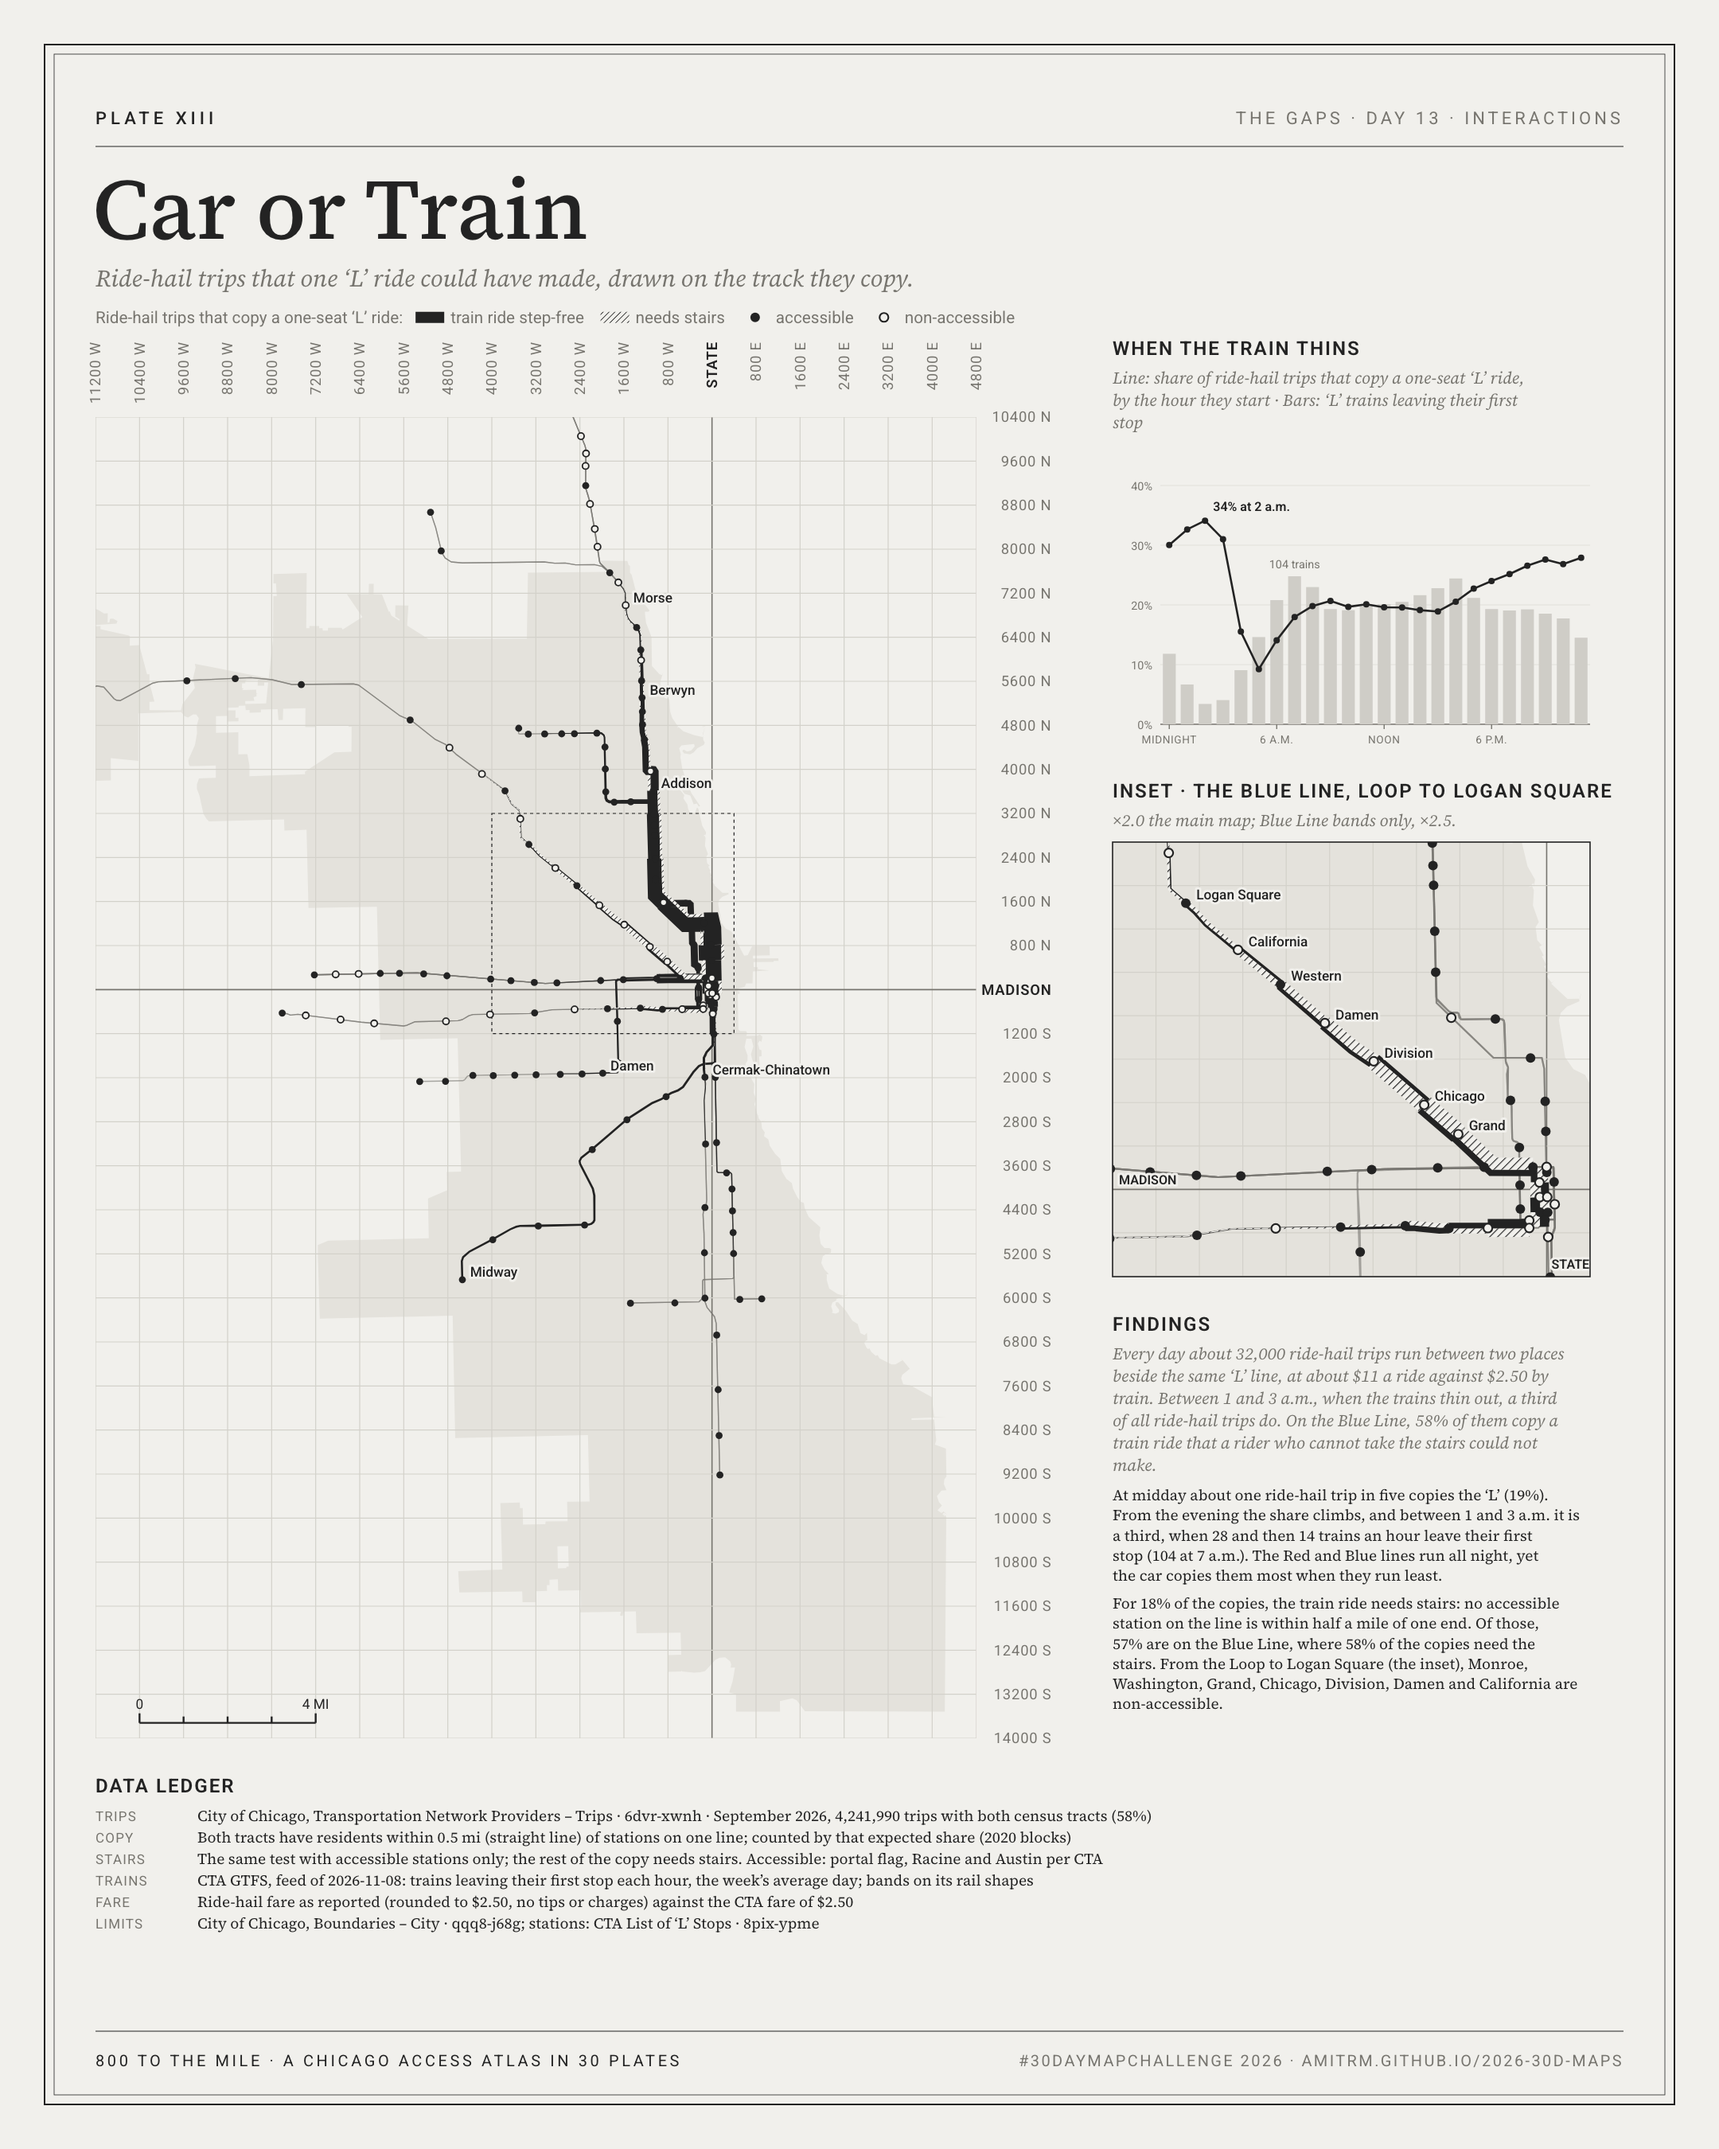
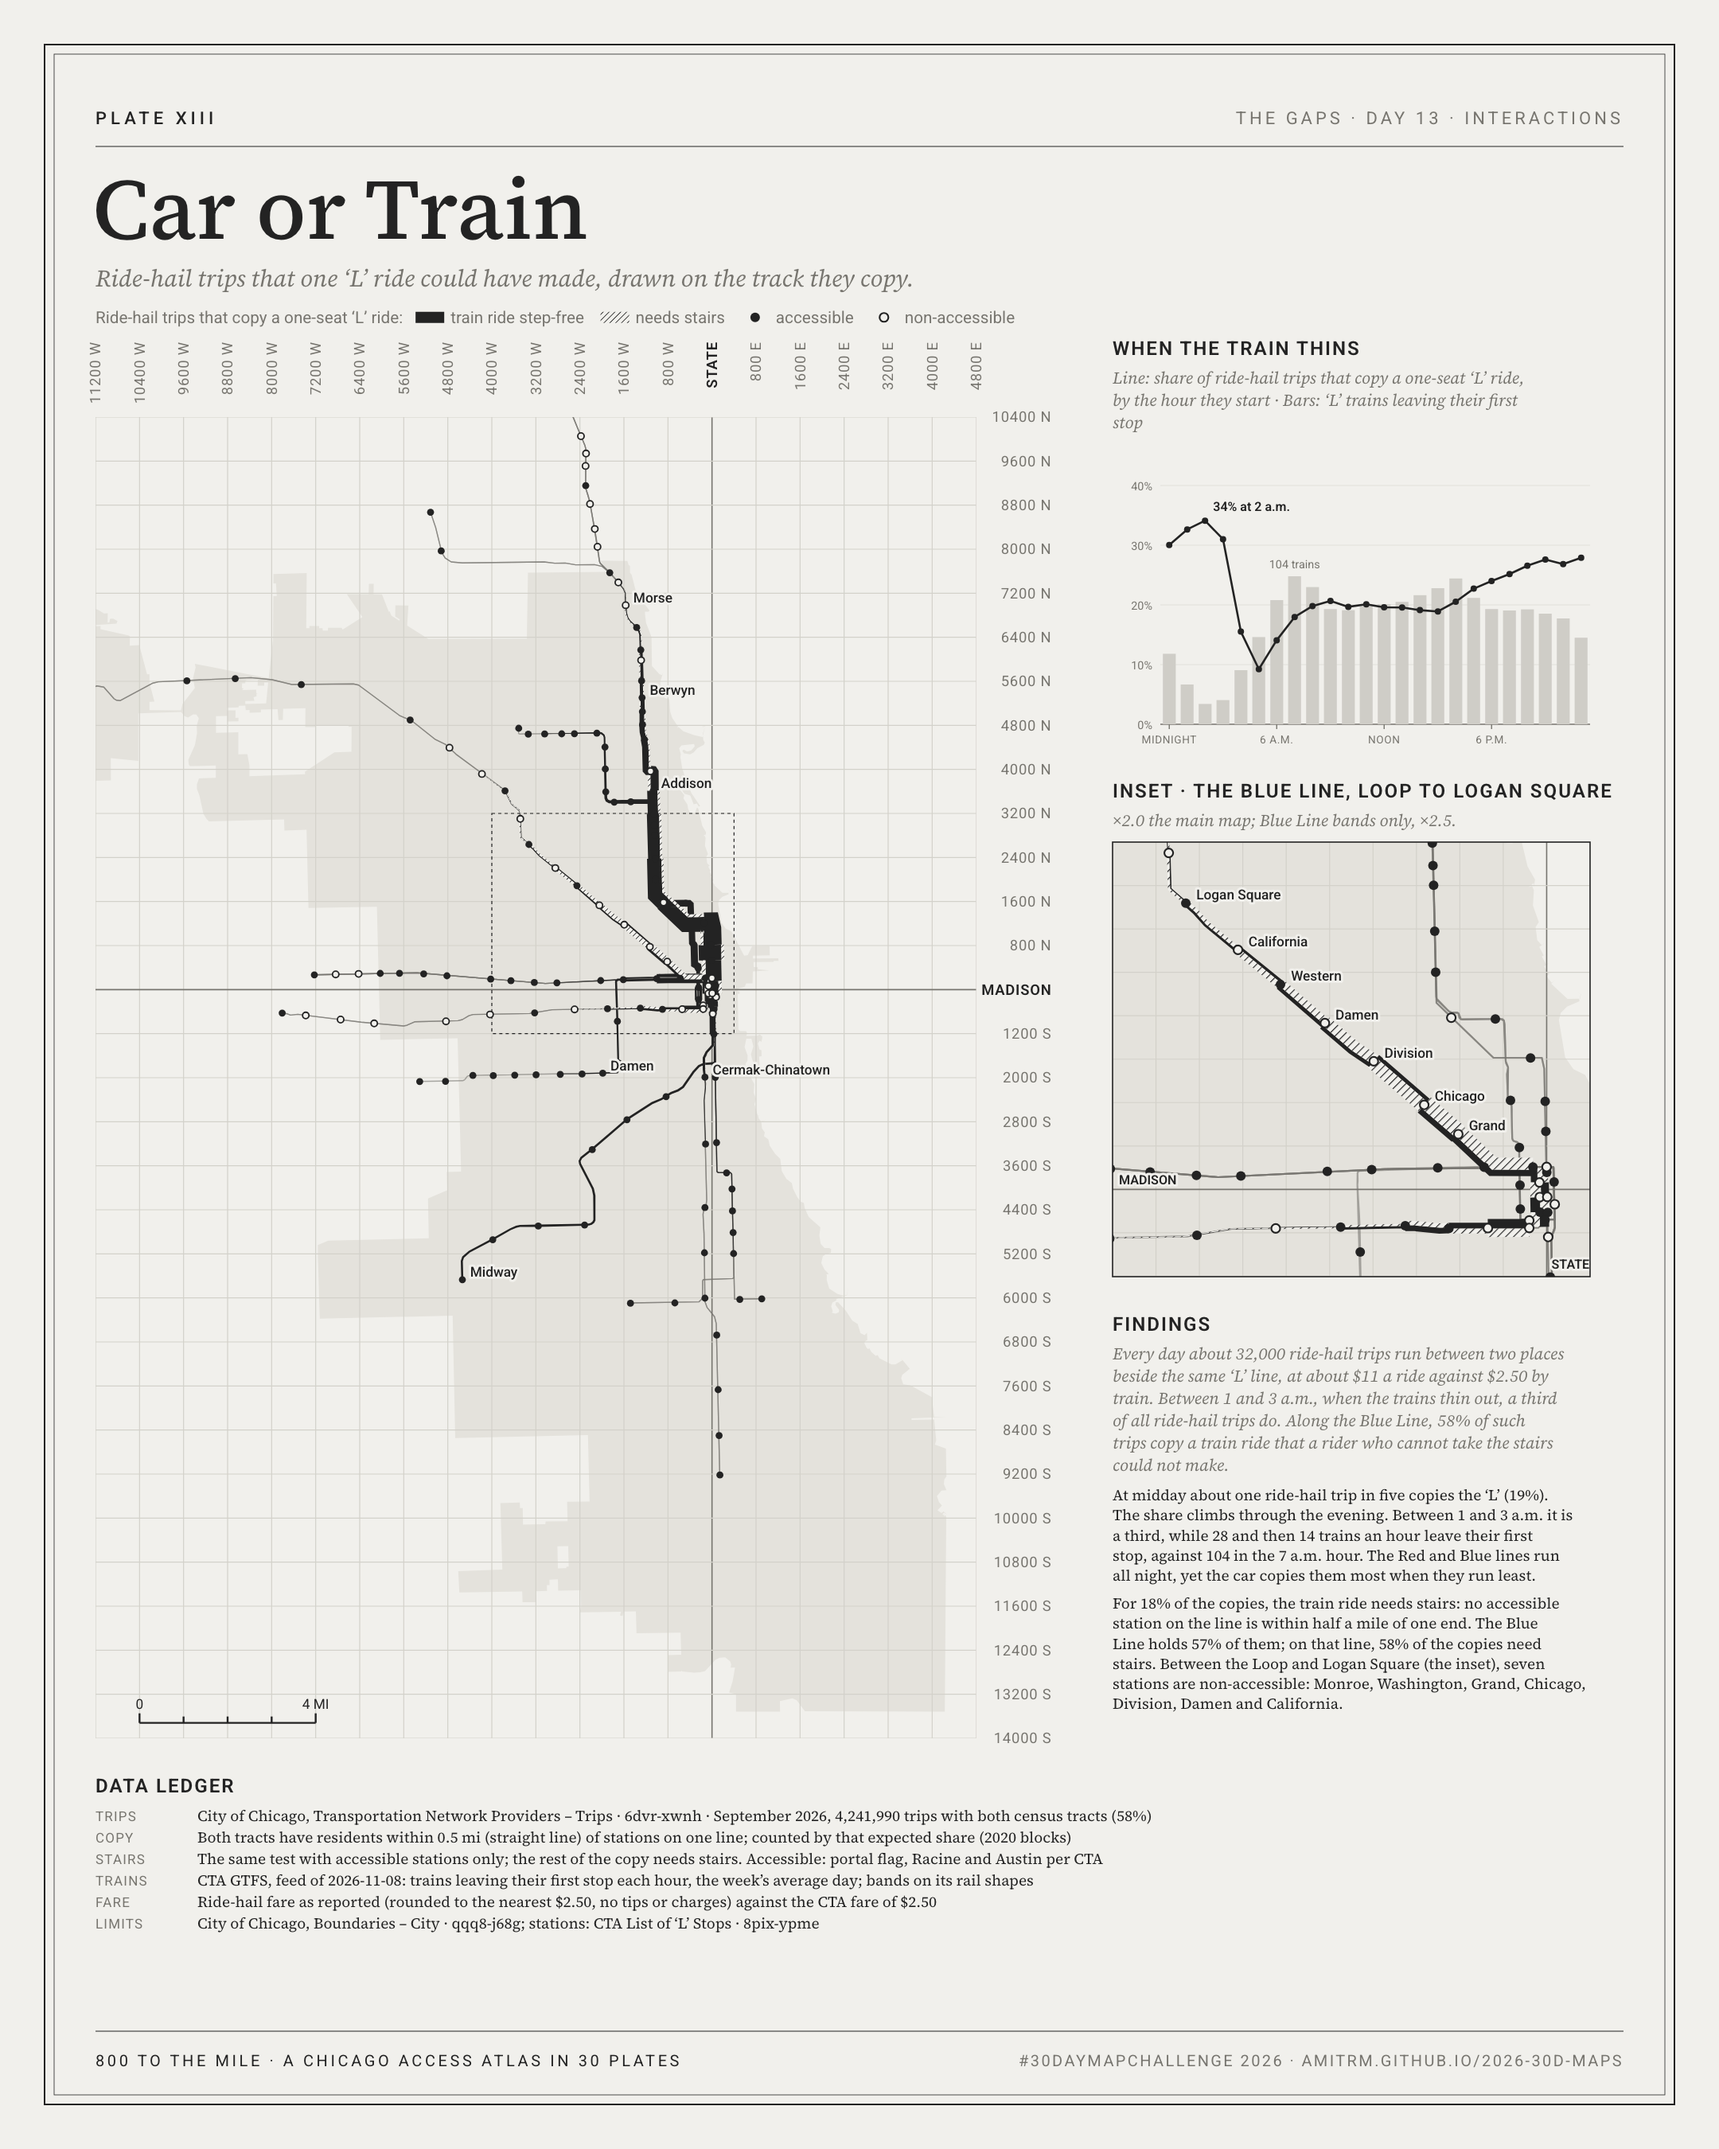
Day 13: final check; missing-tract note, plainer findings, rounded hour tooltips

Changed region(s): [[0.6514, 0.6533, 0.8995, 0.8089]]

diff --git a/src/plates/index.js b/src/plates/index.js
@@ -508,12 +508,13 @@ const d13PeakTrains = d13H.trains.indexOf(Math.max(...d13H.trains));
 const d13BlueSeq = lineSequences.lines.Blue[0];
 const d13BlueStairs = d13BlueSeq.slice(d13BlueSeq.indexOf(day13Data.stations.find((s) => s.short === 'Logan Square').id), d13BlueSeq.indexOf(day13Data.stations.find((s) => s.short === 'Jackson' && s.lines.includes('Blue')).id) + 1)
   .map((id) => day13Data.stations.find((s) => s.id === id)).filter((s) => !s.ada).reverse().map((s) => s.short);
+const d13Words = ['no', 'one', 'two', 'three', 'four', 'five', 'six', 'seven', 'eight', 'nine', 'ten'];
 const d13List = (a) => `${a.slice(0, -1).join(', ')} and ${a.at(-1)}`;
 const d13Lines = Object.entries(d13.lineDay).sort((a, b) => b[1] - a[1]);
 const d13Story = {
   sections: [
     ['Background', [
-      'Every day the ‘L’ and the ride-hail car carry people between the same places. A ride-hail trip copies the ‘L’ when it starts and ends near stations on one line, so a single train ride, with no change, could have made it. Chicago publishes every ride-hail trip with its census tracts, so the copies can be counted and laid on the track the train would have run.',
+      'Every day the ‘L’ and the ride-hail car carry people between the same places. A ride-hail trip copies the ‘L’ when it starts and ends near stations on one line, so a single train ride, with no change, could have made it. Chicago publishes every ride-hail trip, most with the census tracts where it starts and ends, so the copies can be counted and drawn on the track the train would have run.',
       'Some of these trips are about comfort, luggage or a late night out. Some are about the train itself: it comes less often at night, and at some stations a rider who cannot take the stairs cannot board it at all.',
       'The map shows a whole day. Hover or tap an hour in the chart to see that hour on the map. Bands are measured per 1,000 ride-hail trips, so a quiet hour and a busy hour compare.',
     ]],
@@ -521,12 +522,12 @@ const d13Story = {
       day13Data.finding,
       `In September 2026, ${fmt(d13.tripsDay)} ride-hail trips a day carried both census tracts. About ${thousands(d13.copyDay)} of them (${pct(d13.copyShare)}) copied a one-seat ‘L’ ride. They averaged ${d13.milesCopy.toFixed(1)} miles, ${Math.round(d13.minsCopy)} minutes and about $${Math.round(d13.fareCopy)} in fare: about $${thousands(d13.farePaid)} a day for rides the train would carry for about $${thousands(d13.fareTrain)}.`,
       `The Red Line carries ${share(d13.lineDay.Red / d13.copyDay)} of the copies, about ${thousands(d13.lineDay.Red)} a day. The ${d13Lines[1][0]} and ${d13Lines[2][0]} lines follow with about ${d13Hundreds(d13Lines[1][1])} and ${d13Hundreds(d13Lines[2][1])}.`,
-      `At midday about one ride-hail trip in five copies the ‘L’ (${pct(d13.midShare)}). From the evening the share climbs, and between 1 and 3 a.m. it is ${share(d13.nightShare) === 'one in three' ? 'a third' : share(d13.nightShare)}, when ${Math.round(d13H.trains[1])} and then ${Math.round(d13H.trains[2])} trains an hour leave their first stop (${Math.round(d13H.trains[d13PeakTrains])} at ${d13Hour(d13PeakTrains)}). The Red and Blue lines run all night, yet the car copies them most when they run least.`,
-      `For ${pct(d13.stairsShare)} of the copies, the train ride needs stairs: no accessible station on the line is within half a mile of one end. Of those, ${share(d13.blueStairsOfAll)} are on the Blue Line, where ${pct(d13.lineStairs.Blue)} of the copies need the stairs. From the Loop to Logan Square (the inset), ${d13List(d13BlueStairs)} are non-accessible.`,
+      `At midday about one ride-hail trip in five copies the ‘L’ (${pct(d13.midShare)}). The share climbs through the evening. Between 1 and 3 a.m. it is ${share(d13.nightShare) === 'one in three' ? 'a third' : share(d13.nightShare)}, while ${Math.round(d13H.trains[1])} and then ${Math.round(d13H.trains[2])} trains an hour leave their first stop, against ${Math.round(d13H.trains[d13PeakTrains])} in the ${d13Hour(d13PeakTrains)} hour. The Red and Blue lines run all night, yet the car copies them most when they run least.`,
+      `For ${pct(d13.stairsShare)} of the copies, the train ride needs stairs: no accessible station on the line is within half a mile of one end. The Blue Line holds ${share(d13.blueStairsOfAll)} of them; on that line, ${pct(d13.lineStairs.Blue)} of the copies need stairs. Between the Loop and Logan Square (the inset), ${d13Words[d13BlueStairs.length] ?? d13BlueStairs.length} stations are non-accessible: ${d13List(d13BlueStairs)}.`,
     ], true],
     ['What the map cannot see', [
-      'Who rode. The data has no riders, so it cannot say whether a car trip was taken by someone who cannot use the stairs. It says only which train ride existed. The City publishes no count of wheelchair-accessible ride-hail trips.',
-      `Withheld tracts. ${pct(1 - d13.knownShare)} of the month’s ${fmt(d13.tripsAll)} trips have a census tract withheld for privacy and are left out, more of them at night. A tract is larger than a station’s reach, so each trip counts by the share of its tracts’ residents within half a mile of the stations.`,
+      'Who rode. The data has no riders, so it cannot say whether a car trip was taken by someone who cannot use the stairs. It says only which train ride existed, and it does not record whether the car was wheelchair accessible.',
+      `Missing tracts. ${pct(1 - d13.knownShare)} of the month’s ${fmt(d13.tripsAll)} trips have no census tract at one end, because it lies outside the city or is hidden for privacy. They are left out, and more of them are missing at night. A tract is larger than a station’s reach, so each trip counts by the share of its tracts’ residents within half a mile of the stations.`,
       `The half-mile edge. The test draws a straight half mile. Give accessible stations a little more, ${d13.stairsWide.reachMi} mile, and the copies that need stairs fall from ${pct(d13.stairsShare)} to ${pct(d13.stairsWide.share)}, and on the Blue Line from ${pct(d13.lineStairs.Blue)} to ${pct(d13.stairsWide.byLine.Blue)}. The Blue Line still holds most of them.`,
       `A train ride, not a faster one. A copy is a trip the train could have made: the test leaves out the walk to the station, the wait and the reasons people choose a car. Trips that need two lines are not counted. Counting only rides of two stops or more, ${pct(d13.twoStopsShare)} of trips copy the ‘L’.`,
     ]],
@@ -920,8 +921,8 @@ export const plates = {
     finding: day13Data.finding,
     story: d13Story,
     ledger: [
-      ['Trips', `City of Chicago, Transportation Network Providers – Trips (2025–): every ride-hail trip in September 2026 that carries both census tracts, ${fmt(d13.tripsKnown)} of ${fmt(d13.tripsAll)}, grouped by pickup tract, drop-off tract and the hour it started. Fares rounded to $2.50 by the City; tips and charges not included.`, day13Data.sources.tnp],
-      ['Copy', `A trip copies the ‘L’ when both tracts have residents within ${d13.reachMi} mile (straight line) of stations on one line, the stations different. It counts by the share of the pickup tract’s residents near one station times the drop-off tract’s near the other (2020 Census blocks), for the best pair, and is laid on the track between them, drawn on CTA’s GTFS rail shapes.`],
+      ['Trips', `City of Chicago, Transportation Network Providers – Trips (2025–): every ride-hail trip in September 2026 that carries both census tracts, ${fmt(d13.tripsKnown)} of ${fmt(d13.tripsAll)}, grouped by pickup tract, drop-off tract and the hour it started. Fares rounded by the City to the nearest $2.50; tips and charges not included.`, day13Data.sources.tnp],
+      ['Copy', `A trip copies the ‘L’ when both tracts have residents within ${d13.reachMi} mile (straight line) of stations on one line, the stations different. It counts by the share of the pickup tract’s residents near one station times the drop-off tract’s near the other (2020 Census blocks), for the best pair. It is drawn on the track between them (CTA’s GTFS rail shapes).`],
       ['Stairs', 'The same test with accessible stations only. The part of a copy it cannot match needs stairs. Accessible: the City’s flag, with Racine (Blue) and Austin (Green) counted accessible after their reopenings (as Plate VIII).', day13Data.sources.stops],
       ['Trains', `CTA GTFS, feed of ${day13Data.gtfsDate}: ‘L’ trains leaving their first stop in each hour, averaged over a week (five weekdays, Saturday, Sunday).`, day13Data.sources.gtfs],
       ['Fare', `CTA fares: $${d13.fare.toFixed(2)} for an ‘L’ ride (the O’Hare surcharge is left out).`, day13Data.sources.fares],

diff --git a/src/plates/day13.js b/src/plates/day13.js
@@ -313,7 +313,7 @@ export function renderDay13(data, { mode = 'gray', variant = 'plate' } = {}) {
     for (let h = 0; h < 24; h++) {
       const key = `h${String(h).padStart(2, '0')}`;
       if (hooks) {
-        const tip = `${Math.round(shares[h] * 100)}% of ride-hail trips copy a one-seat ‘L’ ride|About ${fmt(hours.copies[h])} an hour on an average day|${Math.round(hours.trains[h])} trains leave their first stop`;
+        const tip = `${Math.round(shares[h] * 100)}% of ride-hail trips copy a one-seat ‘L’ ride|About ${hundreds(hours.copies[h])} such trips in this hour, on an average day|${Math.round(hours.trains[h])} trains leave their first stop`;
         out.push(`<g class="${uid}-col" data-state-key="${key}" data-tip="${hourName(h)}" data-name="${hourName(h)}" data-shape="none" data-detail="${esc(tip)}"><rect class="bg" x="${(cx(h) - colW / 2).toFixed(1)}" y="${top - 12}" width="${colW.toFixed(1)}" height="${ch + 12}" fill="transparent"/>`);
       }
       out.push(`<rect x="${(cx(h) - colW * 0.36).toFixed(1)}" y="${ty(hours.trains[h]).toFixed(1)}" width="${(colW * 0.72).toFixed(1)}" height="${(base - ty(hours.trains[h])).toFixed(1)}" fill="${C.fog}"/>`);
@@ -403,7 +403,7 @@ export function renderDay13(data, { mode = 'gray', variant = 'plate' } = {}) {
     ['COPY', `Both tracts have residents within ${summary.reachMi} mi (straight line) of stations on one line; counted by that expected share (2020 blocks)`],
     ['STAIRS', 'The same test with accessible stations only; the rest of the copy needs stairs. Accessible: portal flag, Racine and Austin per CTA'],
     ['TRAINS', `CTA GTFS, feed of ${data.gtfsDate}: trains leaving their first stop each hour, the week’s average day; bands on its rail shapes`],
-    ['FARE', `Ride-hail fare as reported (rounded to $2.50, no tips or charges) against the CTA fare of $${summary.fare.toFixed(2)}`],
+    ['FARE', `Ride-hail fare as reported (rounded to the nearest $2.50, no tips or charges) against the CTA fare of $${summary.fare.toFixed(2)}`],
     ['LIMITS', 'City of Chicago, Boundaries – City · qqq8-j68g; stations: CTA List of ‘L’ Stops · 8pix-ypme'],
   ];
   dy += 18;
